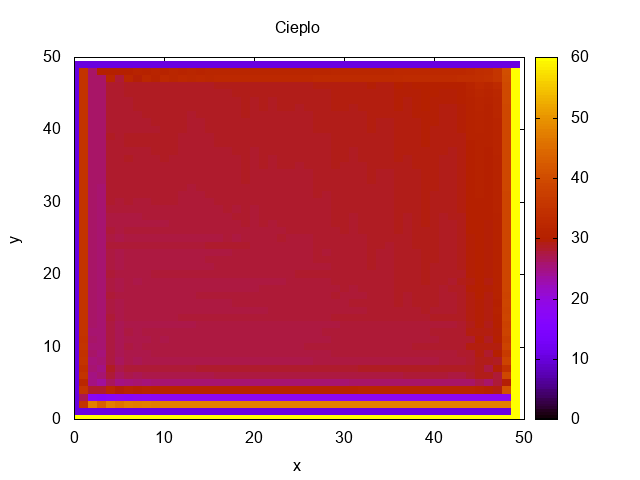
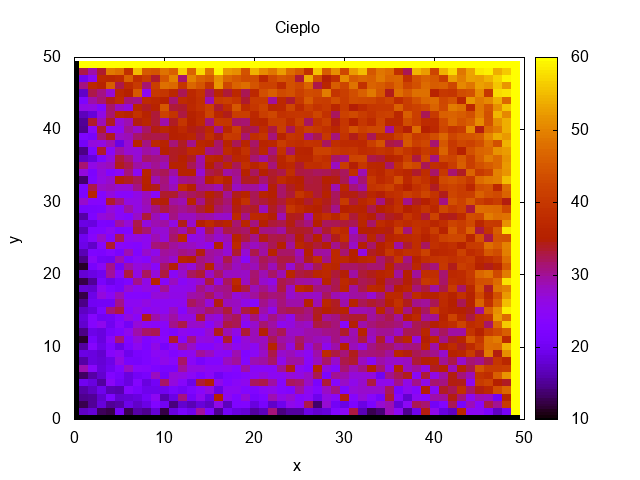
use only one table during iteration

diff --git a/TemperatureDataImplementation.cpp b/TemperatureDataImplementation.cpp
@@ -9,7 +9,7 @@ extern float RandomWalk(int row, int col, float** mesh, float sum, int count, lo
 
 // Implementation of C++ class method (based on prototype from the header file)
 // mesh is being transferred by reference (changes returned)
-CORBA::Long TemperatureDataImplementation::randomWalk(TemperatureMesh mesh,
+CORBA::Float TemperatureDataImplementation::randomWalk(TemperatureMesh mesh,
                                                       CORBA::ULong row, CORBA::ULong column) throw(CORBA::SystemException)
 {
     static float** pmesh = NULL;
@@ -33,11 +33,6 @@ CORBA::Long TemperatureDataImplementation::randomWalk(TemperatureMesh mesh,
     }
 
     //Execute some calculations
-    float newTemperature = RandomWalk((int)row, (int)column, pmesh, 0.0f, 0, counter);
     counter++;
-    //save new temperature in original mesh
-    mesh[row][column] = newTemperature;
-
-    // Dummy data returned
-    return 0;
+    return RandomWalk((int)row, (int)column, pmesh, 0.0f, 0, counter);
 }

diff --git a/temperature_client.cpp b/temperature_client.cpp
@@ -9,6 +9,7 @@
 using namespace std;
 
 float MESH[NODES][NODES];
+float TEMP_MESH[NODES][NODES];
 JTCMutex MeshMutex;
 JTCMonitor MeshMonitor;
 
@@ -48,7 +49,7 @@ int main(int argc, char *argv[])
         }
     }
     tmp_avg = calcAvg(MESH);
-
+    copyMesh(TEMP_MESH, MESH);
     /****************** check args validity *********************************/
     if (argc < 2)
     {
@@ -90,10 +91,11 @@ int main(int argc, char *argv[])
                 {
                     // cout << "Before calculations " << MESH[i][j] << "\n";
                     // Execute remote object method call
-                    server->randomWalk(MESH, i, j);
+                    TEMP_MESH[i][j] = server->randomWalk(MESH, i, j);
                     // cout << "After calculations " << MESH[i][j] << "\n";
                 }
             }
+            copyMesh(MESH, TEMP_MESH);
             tmp_avg = calcAvg(MESH);
             err = fabs(average - tmp_avg);
             cout << "ERROR: " << err << "\n";

diff --git a/TemperatureDataImplementation.h b/TemperatureDataImplementation.h
@@ -7,5 +7,5 @@ class TemperatureDataImplementation : public POA_TemperatureDataInterface,
                                       public PortableServer::RefCountServantBase
 {
 public:
-    virtual CORBA::Long randomWalk(TemperatureMesh mesh, CORBA::ULong row, CORBA::ULong column) throw(CORBA::SystemException);
+    virtual CORBA::Float randomWalk(TemperatureMesh mesh, CORBA::ULong row, CORBA::ULong column) throw(CORBA::SystemException);
 };

diff --git a/helpers.cpp b/helpers.cpp
@@ -32,3 +32,15 @@ void saveToFile(float mesh[][NODES])
         fclose(fptr);
     }
 }
+
+void copyMesh(float mesh[][NODES], float meshToCopy[][NODES])
+{
+    for (int i = 1; i < NODES - 1; ++i)
+    {
+        for (int j = 1; j < NODES - 1; ++j)
+        {
+
+            mesh[i][j] = meshToCopy[i][j];
+        }
+    }
+}

diff --git a/helpers.h b/helpers.h
@@ -3,10 +3,12 @@
 
 #define NODES 50
 // #define ERROR 0.00001
-#define ERROR 0.5
+#define ERROR 0.01
 
 float calcAvg(float mesh[][NODES]);
 
 void saveToFile(float mesh[][NODES]);
+
+void copyMesh(float mesh[][NODES], float meshToCopy[][NODES]);
 
 #endif
